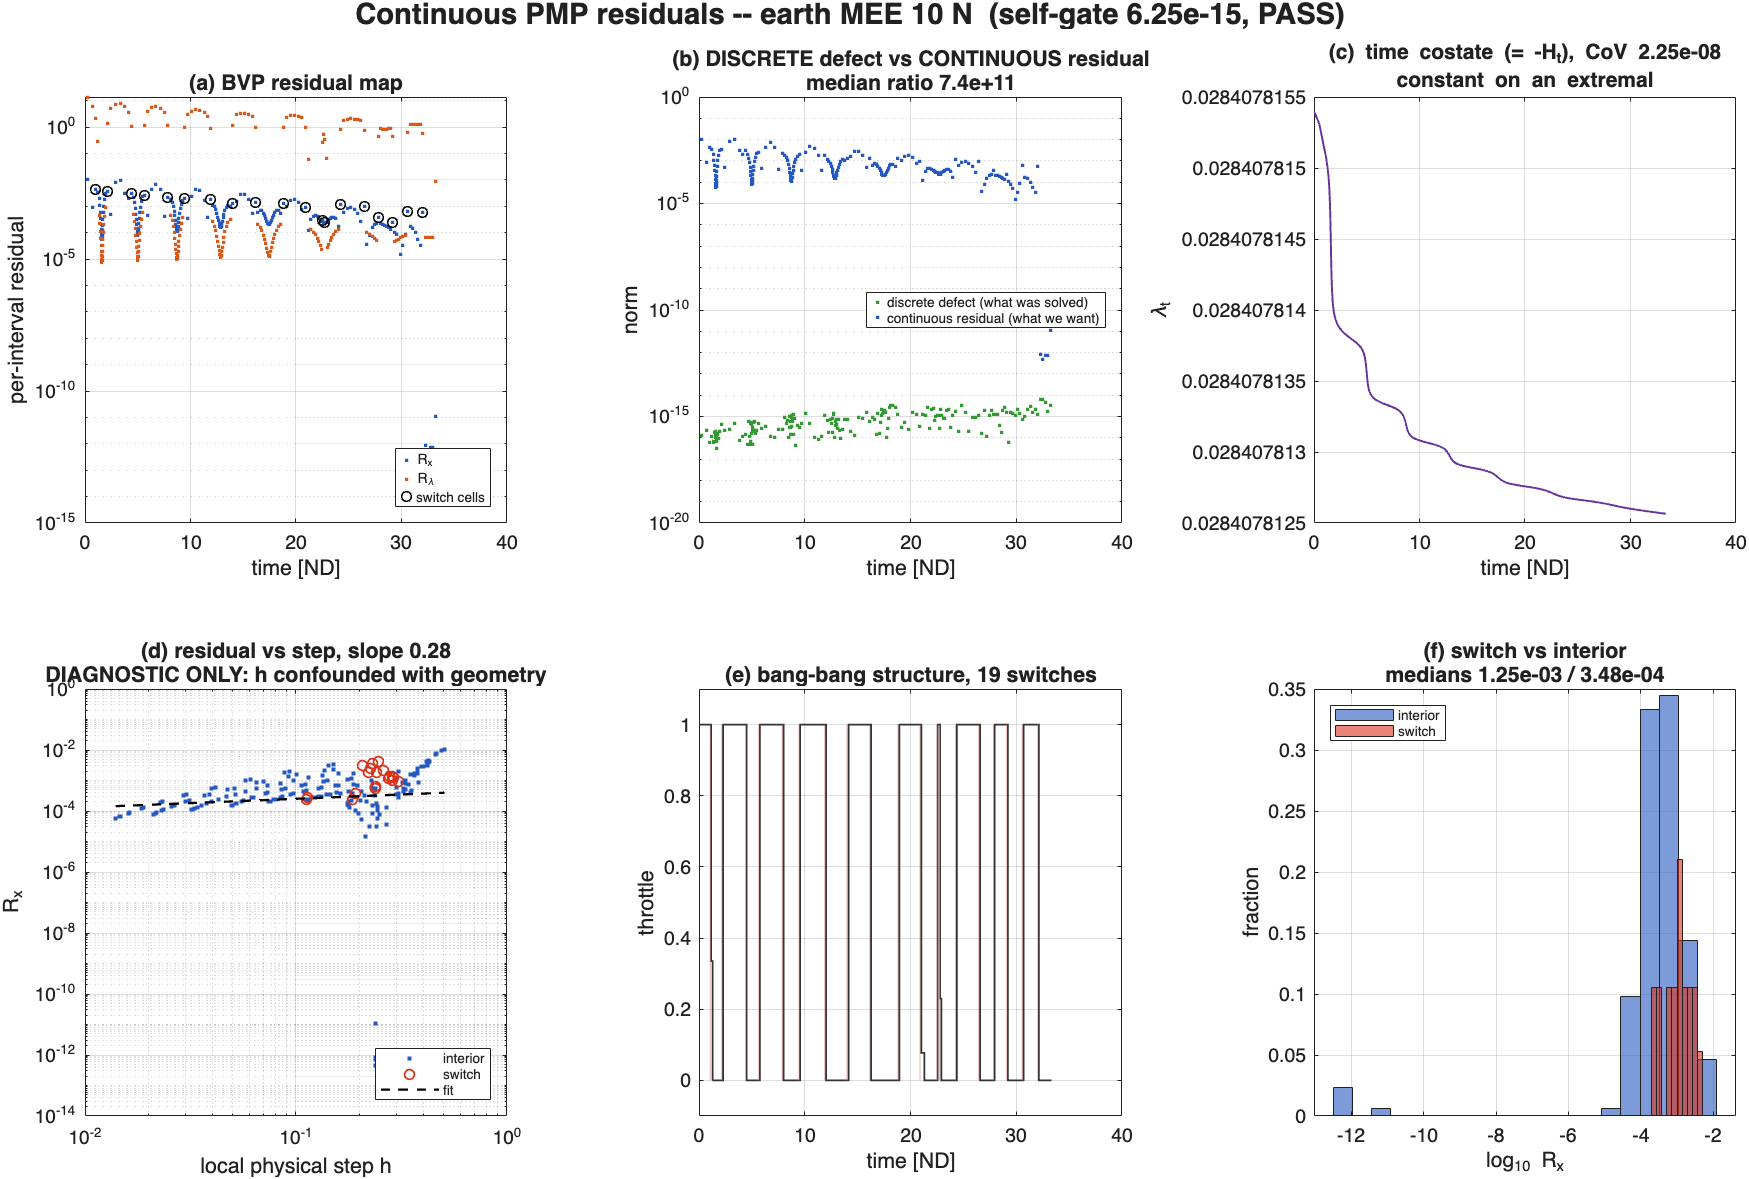
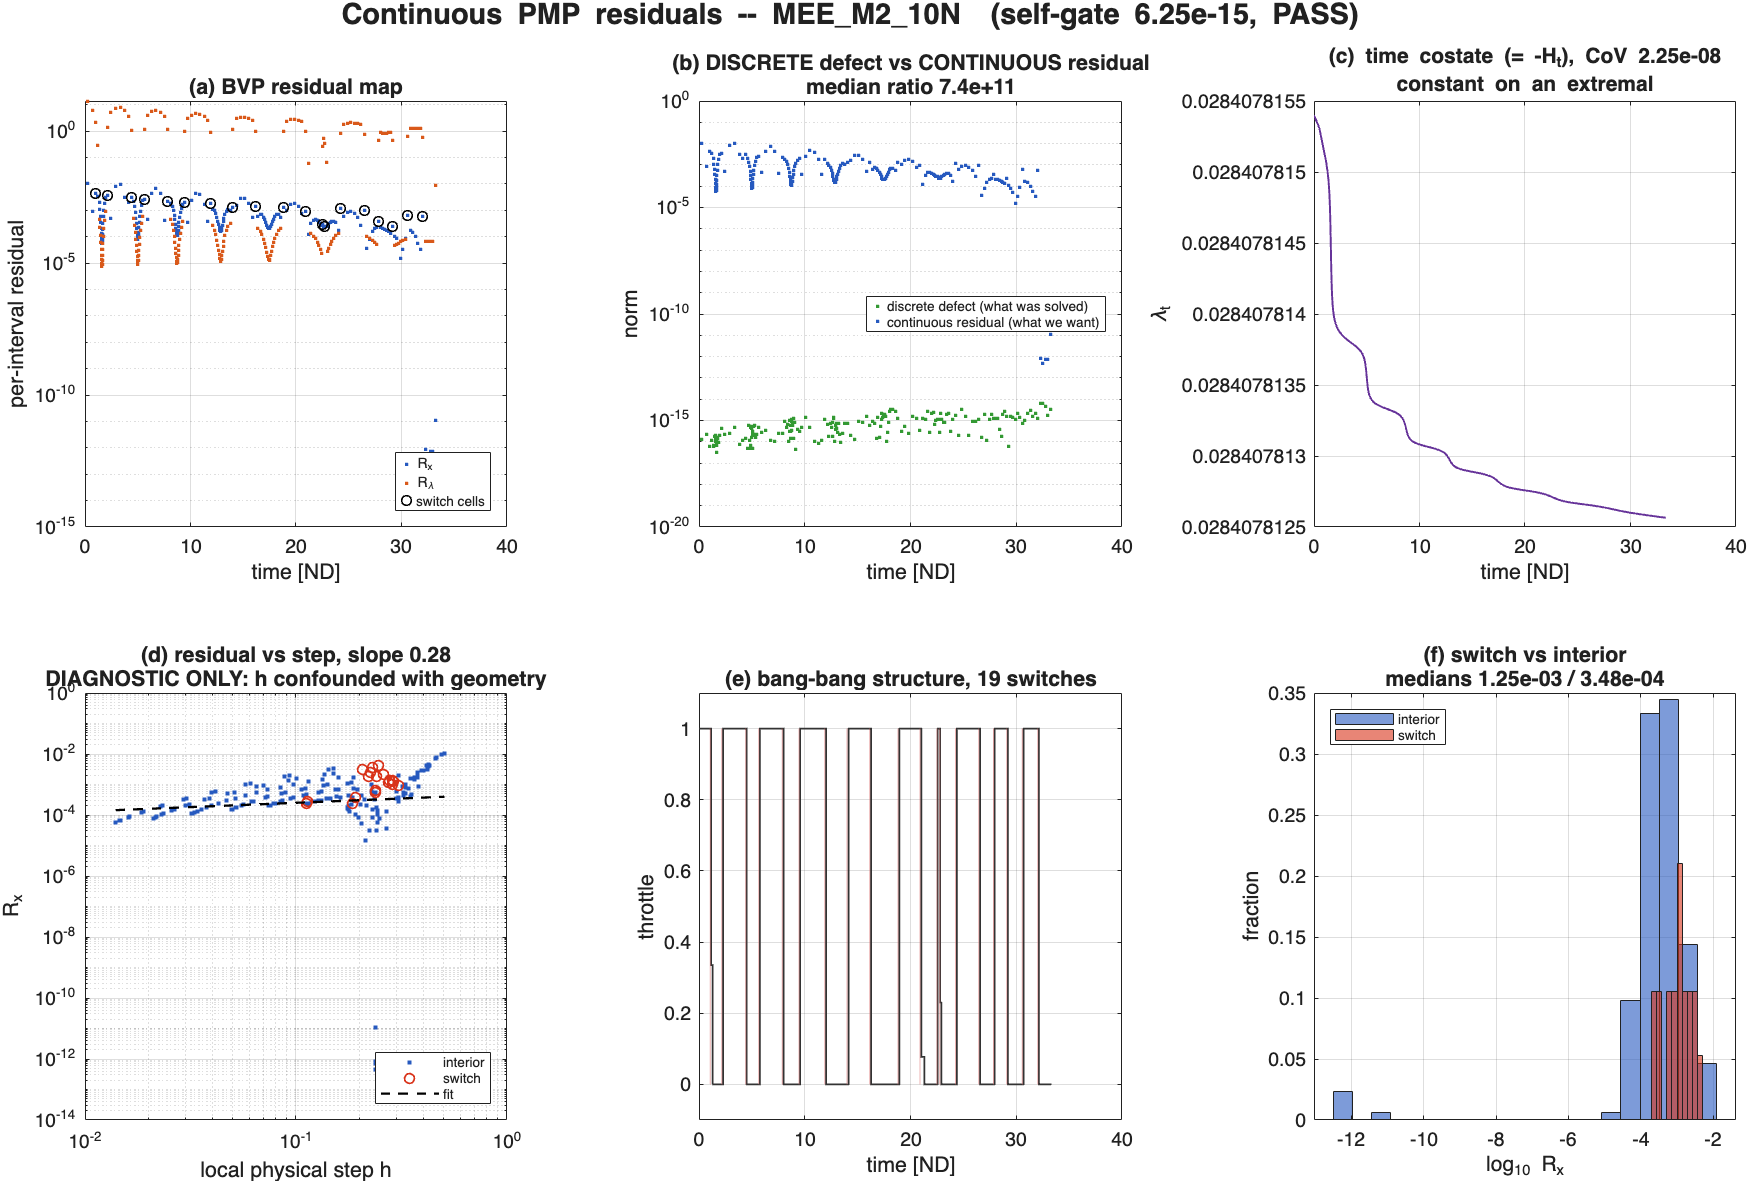
result(pmp): residual is trapezoid truncation error, apogee-dominated, and independent of switch structure
All three earth rows through the continuous PMP checker. Three questions asked,
all three answered, and the answers are mutually consistent.

(1) COSTATE RESIDUAL, NORMALIZED. My earlier flag that R_lam = 13.9 might be
alarming was unfounded: costates are sensitivities with |lam| of 24 to 264, so
the interpretable relative residual is 4.6e-6 / 7.7e-6 / 1.4e-6 median across
10N / 2.5N / 1N. Only one interval anywhere reaches 22% relative. The costate
field is sound.

(2) THE PEAK IS AT APOGEE, NOT PERIGEE -- the opposite of my stated guess.
Median R_x in the apogee-most decile against the perigee-most decile:
16.5x (10N), 19.2x (2.5N), 18.2x (1N). Consistent across rows.

The mechanism is simple once seen: the mesh is uniform in true LONGITUDE, and
near apogee the angular rate is slow, so a fixed dL spans a long dt. The
biggest time-steps sit at apogee, and that is where a trapezoid hurts most.
This also explains panel (d)'s positive slope -- the h-dependence and the
apogee-dependence are the same phenomenon.

(3) NEITHER SWITCHES NOR REVOLUTIONS. Median R_x is 3.73e-4 / 4.61e-4 /
4.65e-4 while revolutions vary 9.4x (7.33 -> 69.18), switches vary 9x
(19 -> 171) and node count varies 9x. It tracks the local step:

  median R_x / h^3  =  0.171 / 0.171 / 0.163   -- constant to 5%

That is the local truncation error of the trapezoidal rule, O(h^3) per step,
with a coefficient set by the orbital dynamics rather than by thrust level or
[…]

diff --git a/orbit_transfer/verify_common/pmp/pmp_residual_mee.m b/orbit_transfer/verify_common/pmp/pmp_residual_mee.m
@@ -55,6 +55,13 @@ function R = pmp_residual_mee(matPath, opts)
 %       .lamTimeCoV      coefficient of variation of the time costate
 %       .selfDefect .gatePass   the self-validating gate
 %       .switchTimes     physical switch times
+%       .RlamRel         [1xN] costate residual RELATIVE to local |lam|. The
+%                        raw .Rlam is an absolute norm and costates are
+%                        sensitivities that can be enormous, so only this
+%                        normalized form is interpretable.
+%       .rOrb .rCell     orbital radius at nodes / interval midpoints, so the
+%                        residual can be read against orbit PHASE
+%       .revs .nodesPerRev .switchesPerRev
 %       .nArcs
 %
 % REFERENCES:
@@ -149,6 +156,26 @@ for a = 1:nArcs
     R.defectCell(i1:i2-1) = Ra.defectCell;
     selfD = max(selfD, Ra.selfDefect);
 end
+% --- normalization and orbital context --------------------------------------
+% R_lam is an ABSOLUTE norm and costates are sensitivities, which can be
+% enormous -- a residual of 13.9 against a costate of 1e5 is relatively tiny.
+% Interpreting the raw number is therefore meaningless; normalize by the local
+% costate magnitude (mean of the interval's two endpoints).
+lamMag = vecnorm(lam, 2, 1);
+lamCell = 0.5*(lamMag(1:end-1) + lamMag(2:end));
+R.lamMag  = lamMag;
+R.RlamRel = R.Rlam ./ max(lamCell, realmin);
+
+% Orbital radius from the MEE state, so residuals can be read against orbit
+% PHASE rather than only against time. In MEE with p = X(1),
+%   r = p / (1 + ex*cos(L) + ey*sin(L)),   L = pi + sigma*DeltaL.
+Lnode = pi + sigma * dL;
+R.rOrb = X(1,:) ./ (1 + X(2,:).*cos(Lnode) + X(3,:).*sin(Lnode));
+R.rCell = 0.5*(R.rOrb(1:end-1) + R.rOrb(2:end));
+R.revs        = dL / (2*pi);
+R.nodesPerRev = (N1-1) / R.revs;
+R.switchesPerRev = sw.n / R.revs;
+
 R.selfDefect = selfD;
 R.gatePass   = selfD <= 1e-8;
 R.nArcs = nArcs;
